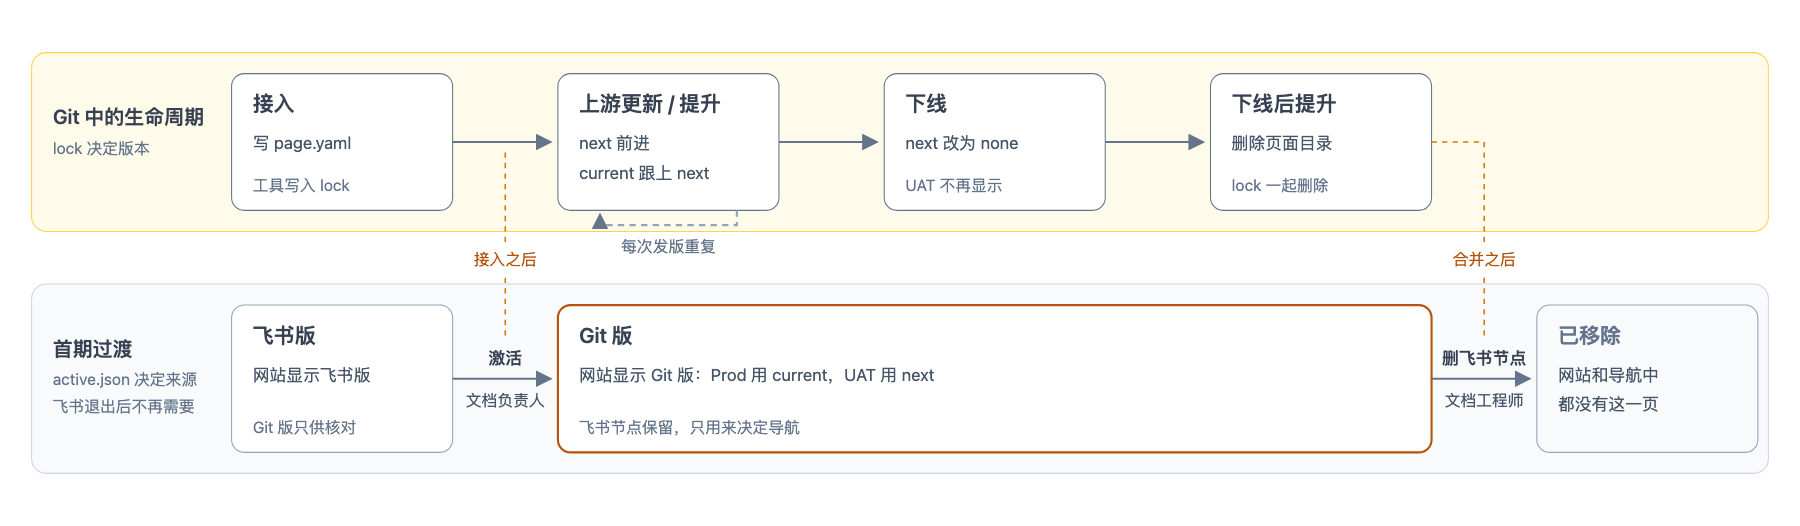
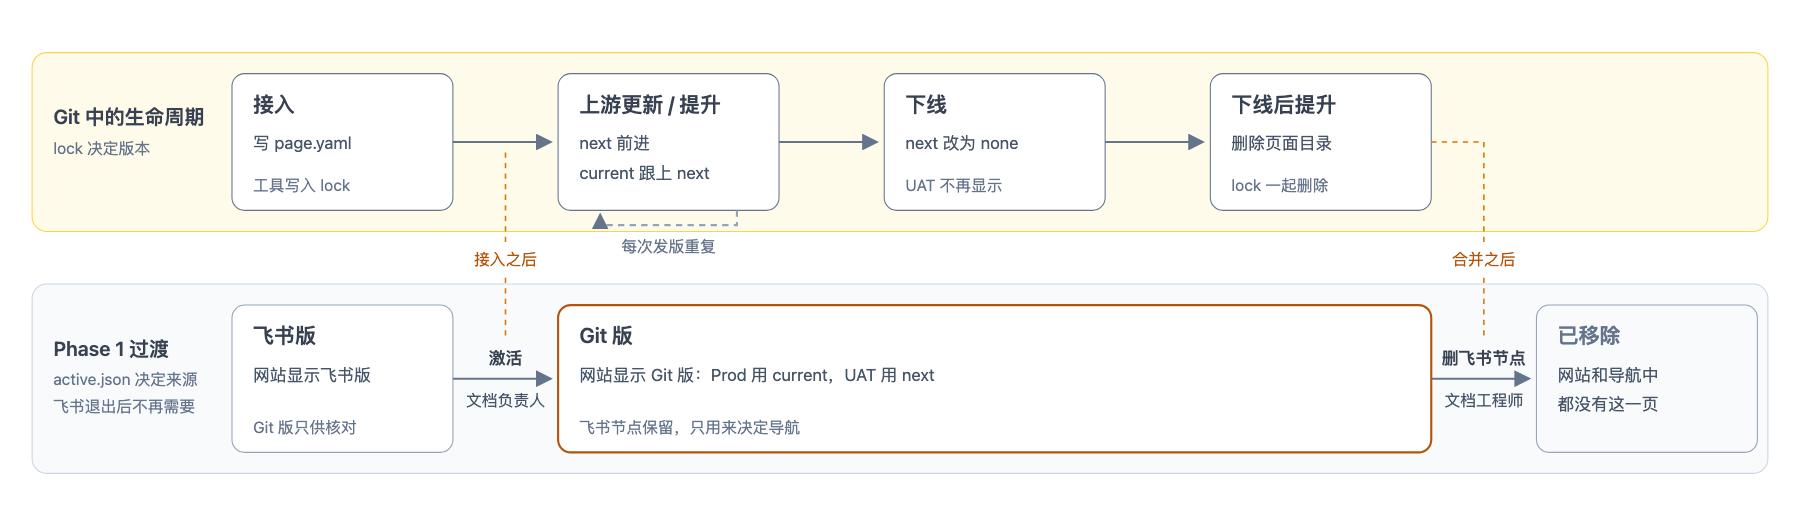
docs: draw the activation figure for PRD scenario 9
- add page-activation: compare, confirm and activate from the docs
  owner's view, what the site shows before and after, and the retry path
  when confirmation or the activation checks fail
- use it in PRD scenario 9 instead of the older implementation-state
  figure, which stays in design/05b with a note pointing to the new one
- relabel the lifecycle figure's lower lane from 首期过渡 to Phase 1 过渡

diff --git a/docs/design/05b-cutover-and-ownership.md b/docs/design/05b-cutover-and-ownership.md
@@ -42,6 +42,8 @@
 
 图 1 · 一个页面从飞书切换到 Git
 
+这张图从实现角度画切换前后的状态，没有画激活前的比较与确认；从文档负责人角度看的三步见[产品需求场景 9 图 4](../prd.md#场景-9从飞书切换到-git激活)。
+
 1. **比较。** 文档负责人手动发起一次“比较”运行，指定这一页。运行把两份 MDX 逐个手册比较：一份是按 `lock.yaml` 与 `page.yaml` 生成的 Git 版本（两个版本已合并），一份是同一次运行从飞书渲染出的这一页，也就是网站当前的内容。工具生成差异，写进这次运行的结果（如运行摘要或可下载的产物），不写 dev。
 2. **确认。** 文档负责人看过差异，确认飞书最近的修改已反映到 Git 中（或这一页已在飞书暂时冻结），并确认候选结果已审核。这两项由人判断，工具不检查。
 3. **激活。** 文档负责人再手动发起一次“激活”运行，指定这一页。工具先检查能检查的：能生成；图片与链接都能解析；飞书节点存在，发布目标与路径一致。任何一项不满足就不激活，飞书仍是正式来源。
